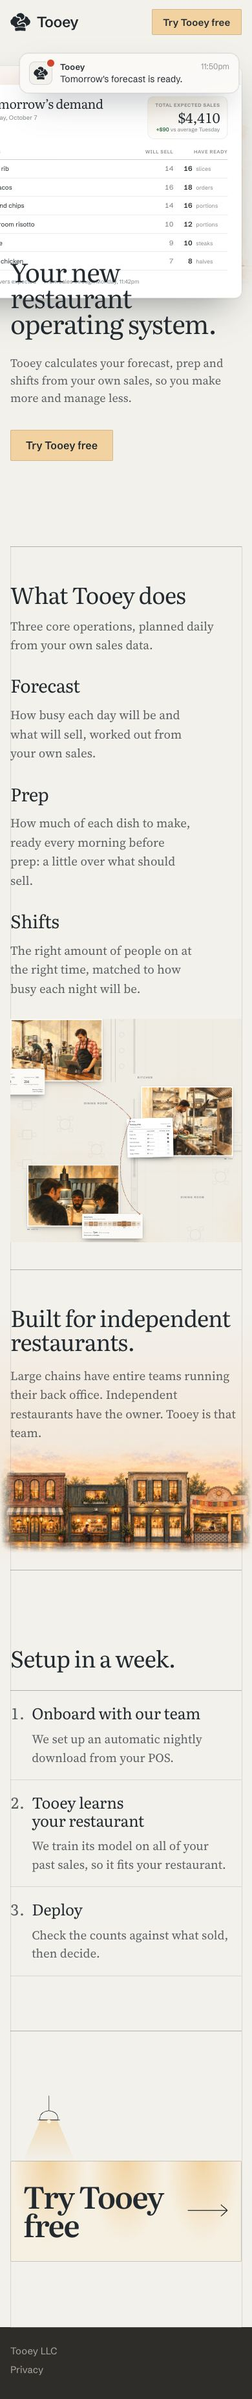
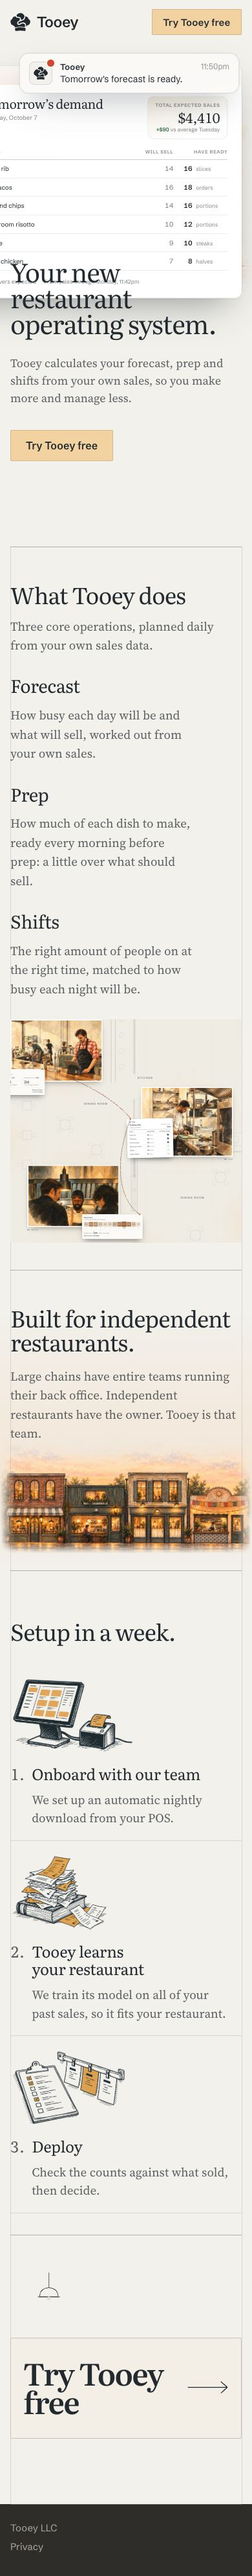
Exploration 49: pen sketches for the setup steps, tighter setup section

Changed region(s): [[0.0, 0.0, 1.0, 0.993], [0.6769, 0.8999, 0.9231, 0.9309], [0.6769, 0.7758, 0.8615, 0.8068]]

diff --git a/explorations/49-ink/styles.css b/explorations/49-ink/styles.css
@@ -987,7 +987,7 @@ html:not(.motion) .steam { stroke-opacity: .3; }
 
 /* ---------- 4. how to start ---------- */
 .start {
-  padding: clamp(5rem, 14vh, 9rem) var(--g) clamp(4rem, 10vh, 7rem);
+  padding: clamp(3.5rem, 9vh, 6rem) var(--g) clamp(1.5rem, 4vh, 3rem);
   display: grid;
   grid-template-columns: repeat(4, 1fr);
 }
@@ -1002,10 +1002,22 @@ html:not(.motion) .steam { stroke-opacity: .3; }
   grid-row: 1;
   display: grid;
   grid-template-columns: repeat(3, 1fr);
-  border-top: 1px solid var(--rule-strong);
   position: relative; z-index: 4;
 }
-.steps li { padding: 1.6rem var(--pad) 0; display: grid; grid-template-columns: auto 1fr; column-gap: .7rem; align-items: baseline; align-content: start; }
+/* each step has a quick two-colour pen sketch standing on its rule; the
+   rule reaches out to the column lines through the image's border */
+.steps .sketch {
+  grid-column: 1 / -1; grid-row: 1;
+  display: block; box-sizing: border-box;
+  width: 100%; height: clamp(8rem, 13vw, 11.5rem);
+  object-fit: contain; object-position: center bottom;
+  padding-bottom: 1rem; margin-bottom: 1.4rem;
+  border-bottom: 1px solid;
+  border-image: linear-gradient(var(--rule-strong), var(--rule-strong)) 0 0 1 0 / 0 0 1px 0 / 0 var(--pad);
+}
+.steps li > .n, .steps li > h3 { grid-row: 2; }
+.steps li > p { grid-row: 3; }
+.steps li { padding: 0 var(--pad); display: grid; grid-template-columns: auto 1fr; column-gap: .7rem; align-items: baseline; align-content: start; }
 .steps li > h3, .steps li > p { grid-column: 2; }
 .steps .n {
   grid-column: 1; grid-row: 1;
@@ -1033,7 +1045,7 @@ html:not(.motion) .steam { stroke-opacity: .3; }
 
 /* ---------- the close: one wide lamplight bar ---------- */
 .talk {
-  padding: clamp(4.5rem, 12vh, 8rem) var(--g) clamp(4.5rem, 12vh, 7.5rem);
+  padding: clamp(2.5rem, 7vh, 5rem) var(--g) clamp(4.5rem, 12vh, 7.5rem);
   display: grid;
   grid-template-columns: repeat(4, 1fr);
 }
@@ -1242,6 +1254,7 @@ html.modal-open { overflow: hidden; }
   .start h2 { grid-row: 1; padding: 0 0 2rem; }
   .steps { grid-column: 1; grid-row: 2; grid-template-columns: 1fr; }
   .steps li { padding: 1.25rem 0; border-bottom: 1px solid var(--rule); }
+  .steps .sketch { width: auto; max-width: 70%; height: 7.5rem; object-position: left bottom; margin: 0 0 1rem; padding: 0; border: 0; }
   .free { grid-column: 1; grid-row: 3; margin-top: 2rem; padding-inline: 0; }
   .bar { grid-column: 1; padding-inline: 1.25rem; font-size: clamp(2.4rem, 11vw, 3rem); gap: 1rem; }
   .talk-note, .foot p, .page h1, .page .intro, .terms h2, .terms div { padding-inline: 0; grid-column: 1; }

diff --git a/explorations/49-ink/index.html b/explorations/49-ink/index.html
@@ -290,9 +290,9 @@
   <section class="start sheet" id="start" aria-labelledby="start-title">
     <h2 id="start-title">Setup in a&nbsp;week.</h2>
     <ol class="steps">
-      <li><span class="n" aria-hidden="true">1</span><h3>Onboard with our team</h3><p>We set up an automatic nightly download from your POS.</p></li>
-      <li><span class="n" aria-hidden="true">2</span><h3>Tooey learns your restaurant</h3><p>We train its model on all of your past sales, so it fits your restaurant.</p></li>
-      <li><span class="n" aria-hidden="true">3</span><h3>Deploy</h3><p>Check the counts against what sold, then decide.</p></li>
+      <li><img class="sketch" src="art/sketch-pos.png" alt="" width="670" height="417" loading="lazy" decoding="async"><span class="n" aria-hidden="true">1</span><h3>Onboard with our team</h3><p>We set up an automatic nightly download from your POS.</p></li>
+      <li><img class="sketch" src="art/sketch-receipts.png" alt="" width="695" height="550" loading="lazy" decoding="async"><span class="n" aria-hidden="true">2</span><h3>Tooey learns your restaurant</h3><p>We train its model on all of your past sales, so it fits your restaurant.</p></li>
+      <li><img class="sketch" src="art/sketch-prep.png" alt="" width="671" height="445" loading="lazy" decoding="async"><span class="n" aria-hidden="true">3</span><h3>Deploy</h3><p>Check the counts against what sold, then decide.</p></li>
     </ol>
   </section>
 

diff --git a/explorations/49-ink/NOTES.md b/explorations/49-ink/NOTES.md
@@ -30,6 +30,8 @@ Rex liked 49 and took most of a review's suggestions.
 - **Cards.** The forecast card sits on the empty bar so the tablet he reads stays in view. The prep sheet is half way through the morning: three made, three to go. Busy hours keeps its title, runs paper to amber instead of grey, and gains "Most hands on 6 to 9pm" (the three busiest hours). That line is not in the console today; it says what the Shifts words promise.
 - **Plan labels** moved so none is cut by the glass, the view's edge or a pin at a stop.
 - **Independents.** The street is painted taller, with a pale sky that fades into the paper at the top (`_src/paint/prompt-indies-tall.md`). On a wide screen the heading and paragraph sit in that sky and the section warms toward the rooftops, so there is no hard edge between white page and painting. On a phone the words come first and the street sits under them.
+- **Setup in a week.** Each step has a quick pen sketch in the page's two colours, slate ink and one amber: the POS and its printer, a stack of old receipts on a ledger, the prep sheet beside the ticket rail (Codex image generation, prompt in `_src/sketch/prompt.md`; white turned to transparency and cropped). The section is tighter top and bottom. Step 3 keeps its title and line.
+- **Closing bar.** The three lamps hang dark until the pointer reaches "Try Tooey free", then they light the bar. Touch screens, which have no hover, keep them lit.
 
 ## The chef's hat (2026-10-20)
 Rex supplied a new logo: a chef's hat with a winding line through it, on a white rounded tile (`_src/mark-source.png`).
@@ -46,6 +48,7 @@ The illustrations were made with Codex's image generation tool (`image_gen`, its
 | `forecast` | https://unsplash.com/photos/X_bbCAYzlTs |
 | `prep` | https://unsplash.com/photos/y-XZf_TNRms (the blurry wall on the left cropped off) |
 | `shifts` | https://unsplash.com/photos/VUd9yv41hh0 |
+| `sketch-pos`, `sketch-receipts`, `sketch-prep` | No photograph; prompt in `_src/sketch/prompt.md` |
 | `street`, `indies` | No photograph: the page's own line drawings (`_src/ref/`) and the three scenes for style; prompt in `_src/paint/prompt.md` |
 
 They are AI-generated, which is a different promise from a photograph or a commissioned drawing.

diff --git a/explorations/49-ink/_src/sketch/prompt.md b/explorations/49-ink/_src/sketch/prompt.md
@@ -1,0 +1,20 @@
+Use your image generation tool to make three small illustrations as a matching set, then copy each generated image file to:
+- /Users/rexchao/Projects/Tooey-project/TooeyWebsite/explorations/49-ink/_src/sketch/pos.png
+- /Users/rexchao/Projects/Tooey-project/TooeyWebsite/explorations/49-ink/_src/sketch/receipts.png
+- /Users/rexchao/Projects/Tooey-project/TooeyWebsite/explorations/49-ink/_src/sketch/prep.png
+
+Look first at /Users/rexchao/Projects/Tooey-project/TooeyWebsite/explorations/49-ink/art/prep-1100.jpg for the world these belong to (a small independent restaurant), but these are NOT paintings.
+
+Style for all three, identical across the set:
+- A loose pen sketch, like a quick drawing in a chef's notebook: confident, slightly uneven ink lines, a little hatching for shadow, nothing fussy.
+- Exactly two colours: dark slate ink (#232a2f) for every line, and ONE flat warm amber wash (#d9a35b) used sparingly on a few areas as a highlight. No other colours, no grey wash, no gradients, no paper texture.
+- Background is pure flat white (#ffffff), edge to edge, so it can be blended onto the page. No frame, no border, no ground shadow beyond a few hatch strokes.
+- Landscape 4:3 (for example 1200x900). The object sits centred with generous white space around it, filling about 60% of the width.
+- No text, numbers, lettering or logos anywhere. Screens and paper show only abstract lines and blocks.
+- No people, no hands.
+
+1. pos.png: a restaurant point-of-sale touchscreen on a stand at the counter, with a small receipt printer beside it and a cable running from them off to the side. Amber on the screen glow and the receipt curling out.
+2. receipts.png: a tall stack of old paper receipts and a few loose ones fanned out, with a thick bound ledger underneath. Amber on a few of the receipts.
+3. prep.png: a clipboard prep sheet with a column of tick boxes, some ticked, lying next to a short row of kitchen order tickets on a rail. Amber on the ticked boxes and one ticket.
+
+Do not alter any other files. When done, print the three saved file paths.

diff --git a/docs/plans/explorations.md b/docs/plans/explorations.md
@@ -372,4 +372,6 @@ Worked in 49 itself; the line drawings stay behind `?art=line` for comparison.
 - [x] Hero street and the four shops painted in the scenes' ink and watercolour (Codex image generation, from the line drawings)
 - [x] Reviewed at 1440 at every stop; gallery shot and notes
 - [x] Independents: taller painting with a pale sky, heading set in the sky, page warms toward the rooftops; stacked on phones
+- [x] Setup in a week: two-colour pen sketch per step, tighter spacing
+- [x] Closing lamps off until hover
 - [ ] Rex: does the forecast picture say forecasting, or does it need a new scene
